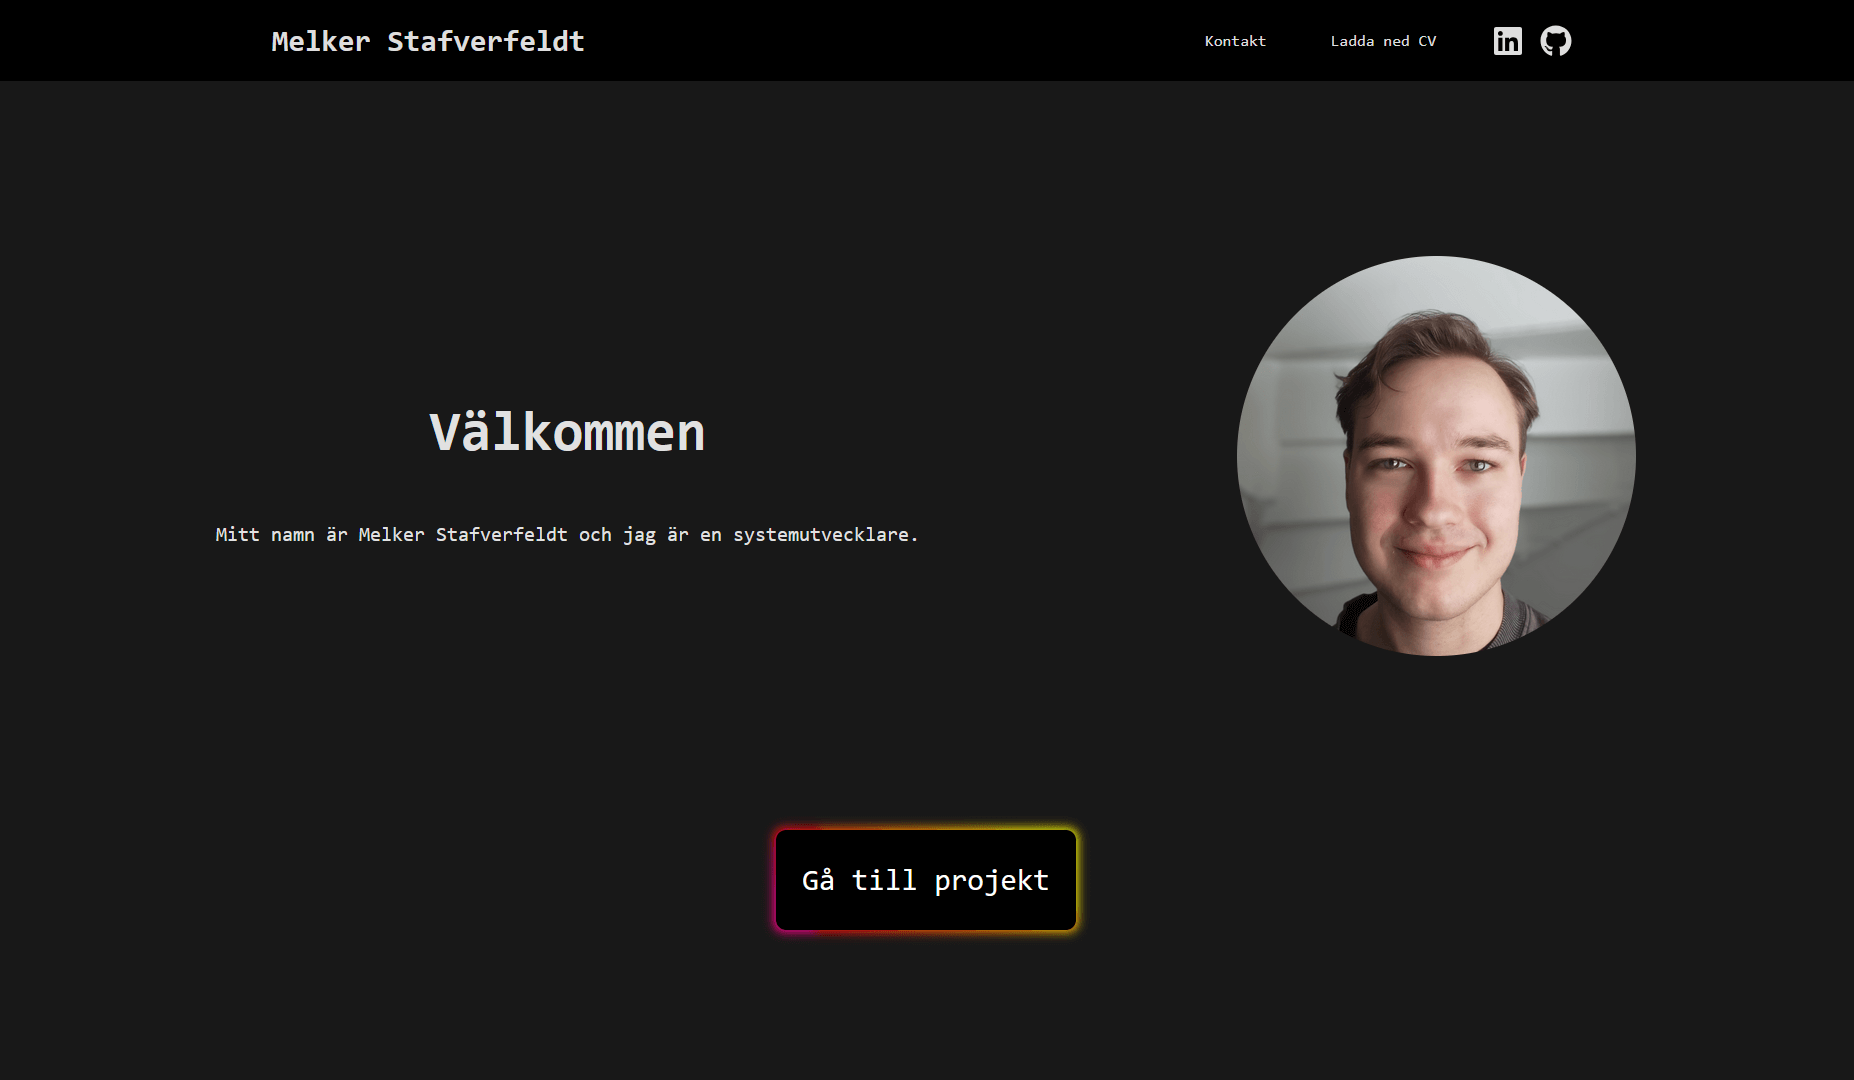
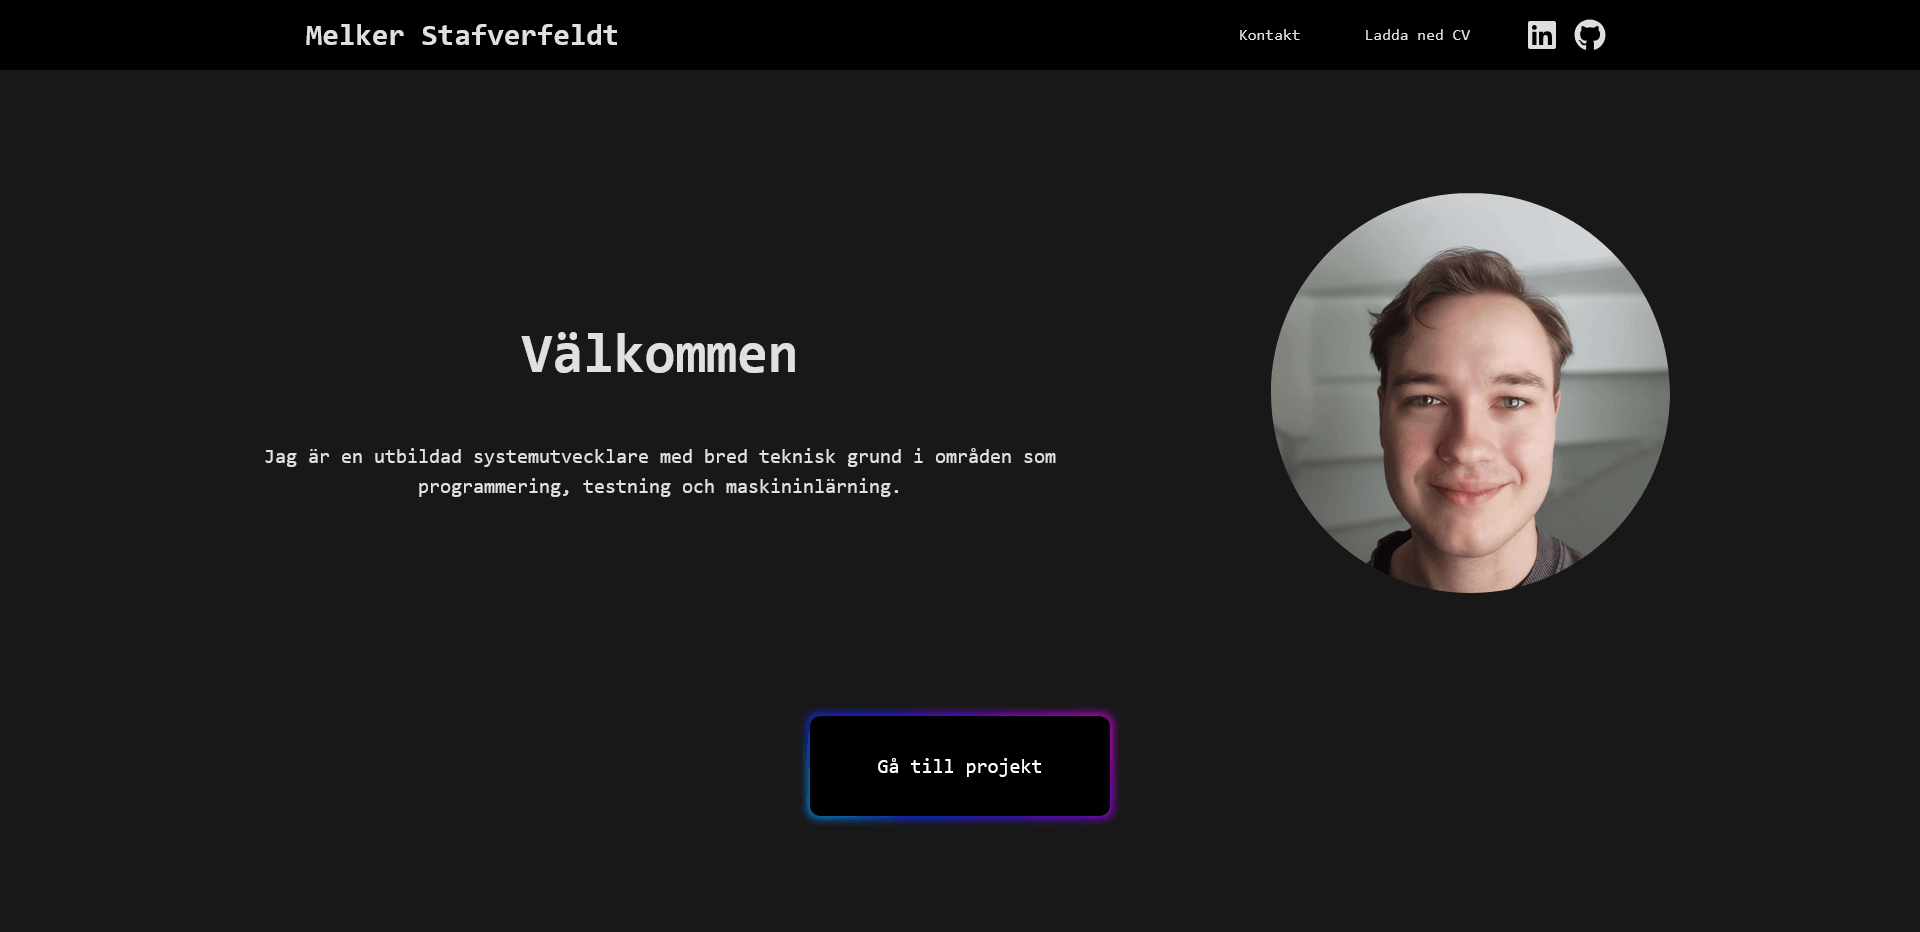
Added examensarbete image

diff --git a/src/components/Contact.jsx b/src/components/Contact.jsx
@@ -1,5 +1,5 @@
 import "./Contact.css";
-import "./Button.css";
+import GlowingLink from "./GlowingLink";
 
 function Contact() {
   const email = "melker.stafverfeldt@hotmail.com";
@@ -8,9 +8,7 @@ function Contact() {
     <section id="contact" className="contact-section">
       <h2 className="contact-heading">Kontakt</h2>
       <p>Om du vill kontakta mig kan du mejla mig på {email}</p>
-      <a href="mailto:melker.stafverfeldt@hotmail.com" className="button-1">
-        Mejla mig
-      </a>
+      <GlowingLink url={"mailto:" + email} linkText="Mejla mig" />
     </section>
   );
 }

diff --git a/src/components/GlowingLink.jsx b/src/components/GlowingLink.jsx
@@ -1,12 +1,12 @@
 import "./Button.css";
 import { FontAwesomeIcon } from "@fortawesome/react-fontawesome";
 
-function GlowingLink({ url, icon: Icon, linkText }) {
+function GlowingLink({ url, icon: Icon, linkText, newTab = true }) {
   return (
     <a
       href={url}
-      target="_blank"
-      rel="noopener noreferrer"
+      target={newTab ? "_blank" : "_self"}
+      rel={newTab ? "noopener noreferrer" : undefined}
       className="button-1"
     >
       {/* Icon is renamed to ensure correct rendering */}

diff --git a/src/components/Hero.jsx b/src/components/Hero.jsx
@@ -1,5 +1,4 @@
 import "./Hero.css";
-import "./Button.css";
 import GlowingLink from "./GlowingLink";
 
 function Hero({ title, body, linkText }) {
@@ -10,7 +9,7 @@ function Hero({ title, body, linkText }) {
         <p className="hero-body">{body}</p>
       </div>
       <img src="/images/portrait.jpg" className="portrait-img" />
-      <GlowingLink linkText={linkText} />
+      <GlowingLink url="#projects" linkText={linkText} newTab={false} />
     </section>
   );
 }

diff --git a/src/components/Card.jsx b/src/components/Card.jsx
@@ -1,5 +1,4 @@
 import "./Card.css";
-import "./Button.css";
 import GlowingLink from "./GlowingLink";
 import TechBadges from "./TechBadges";
 import { FaGithub, FaDownload } from "react-icons/fa";
